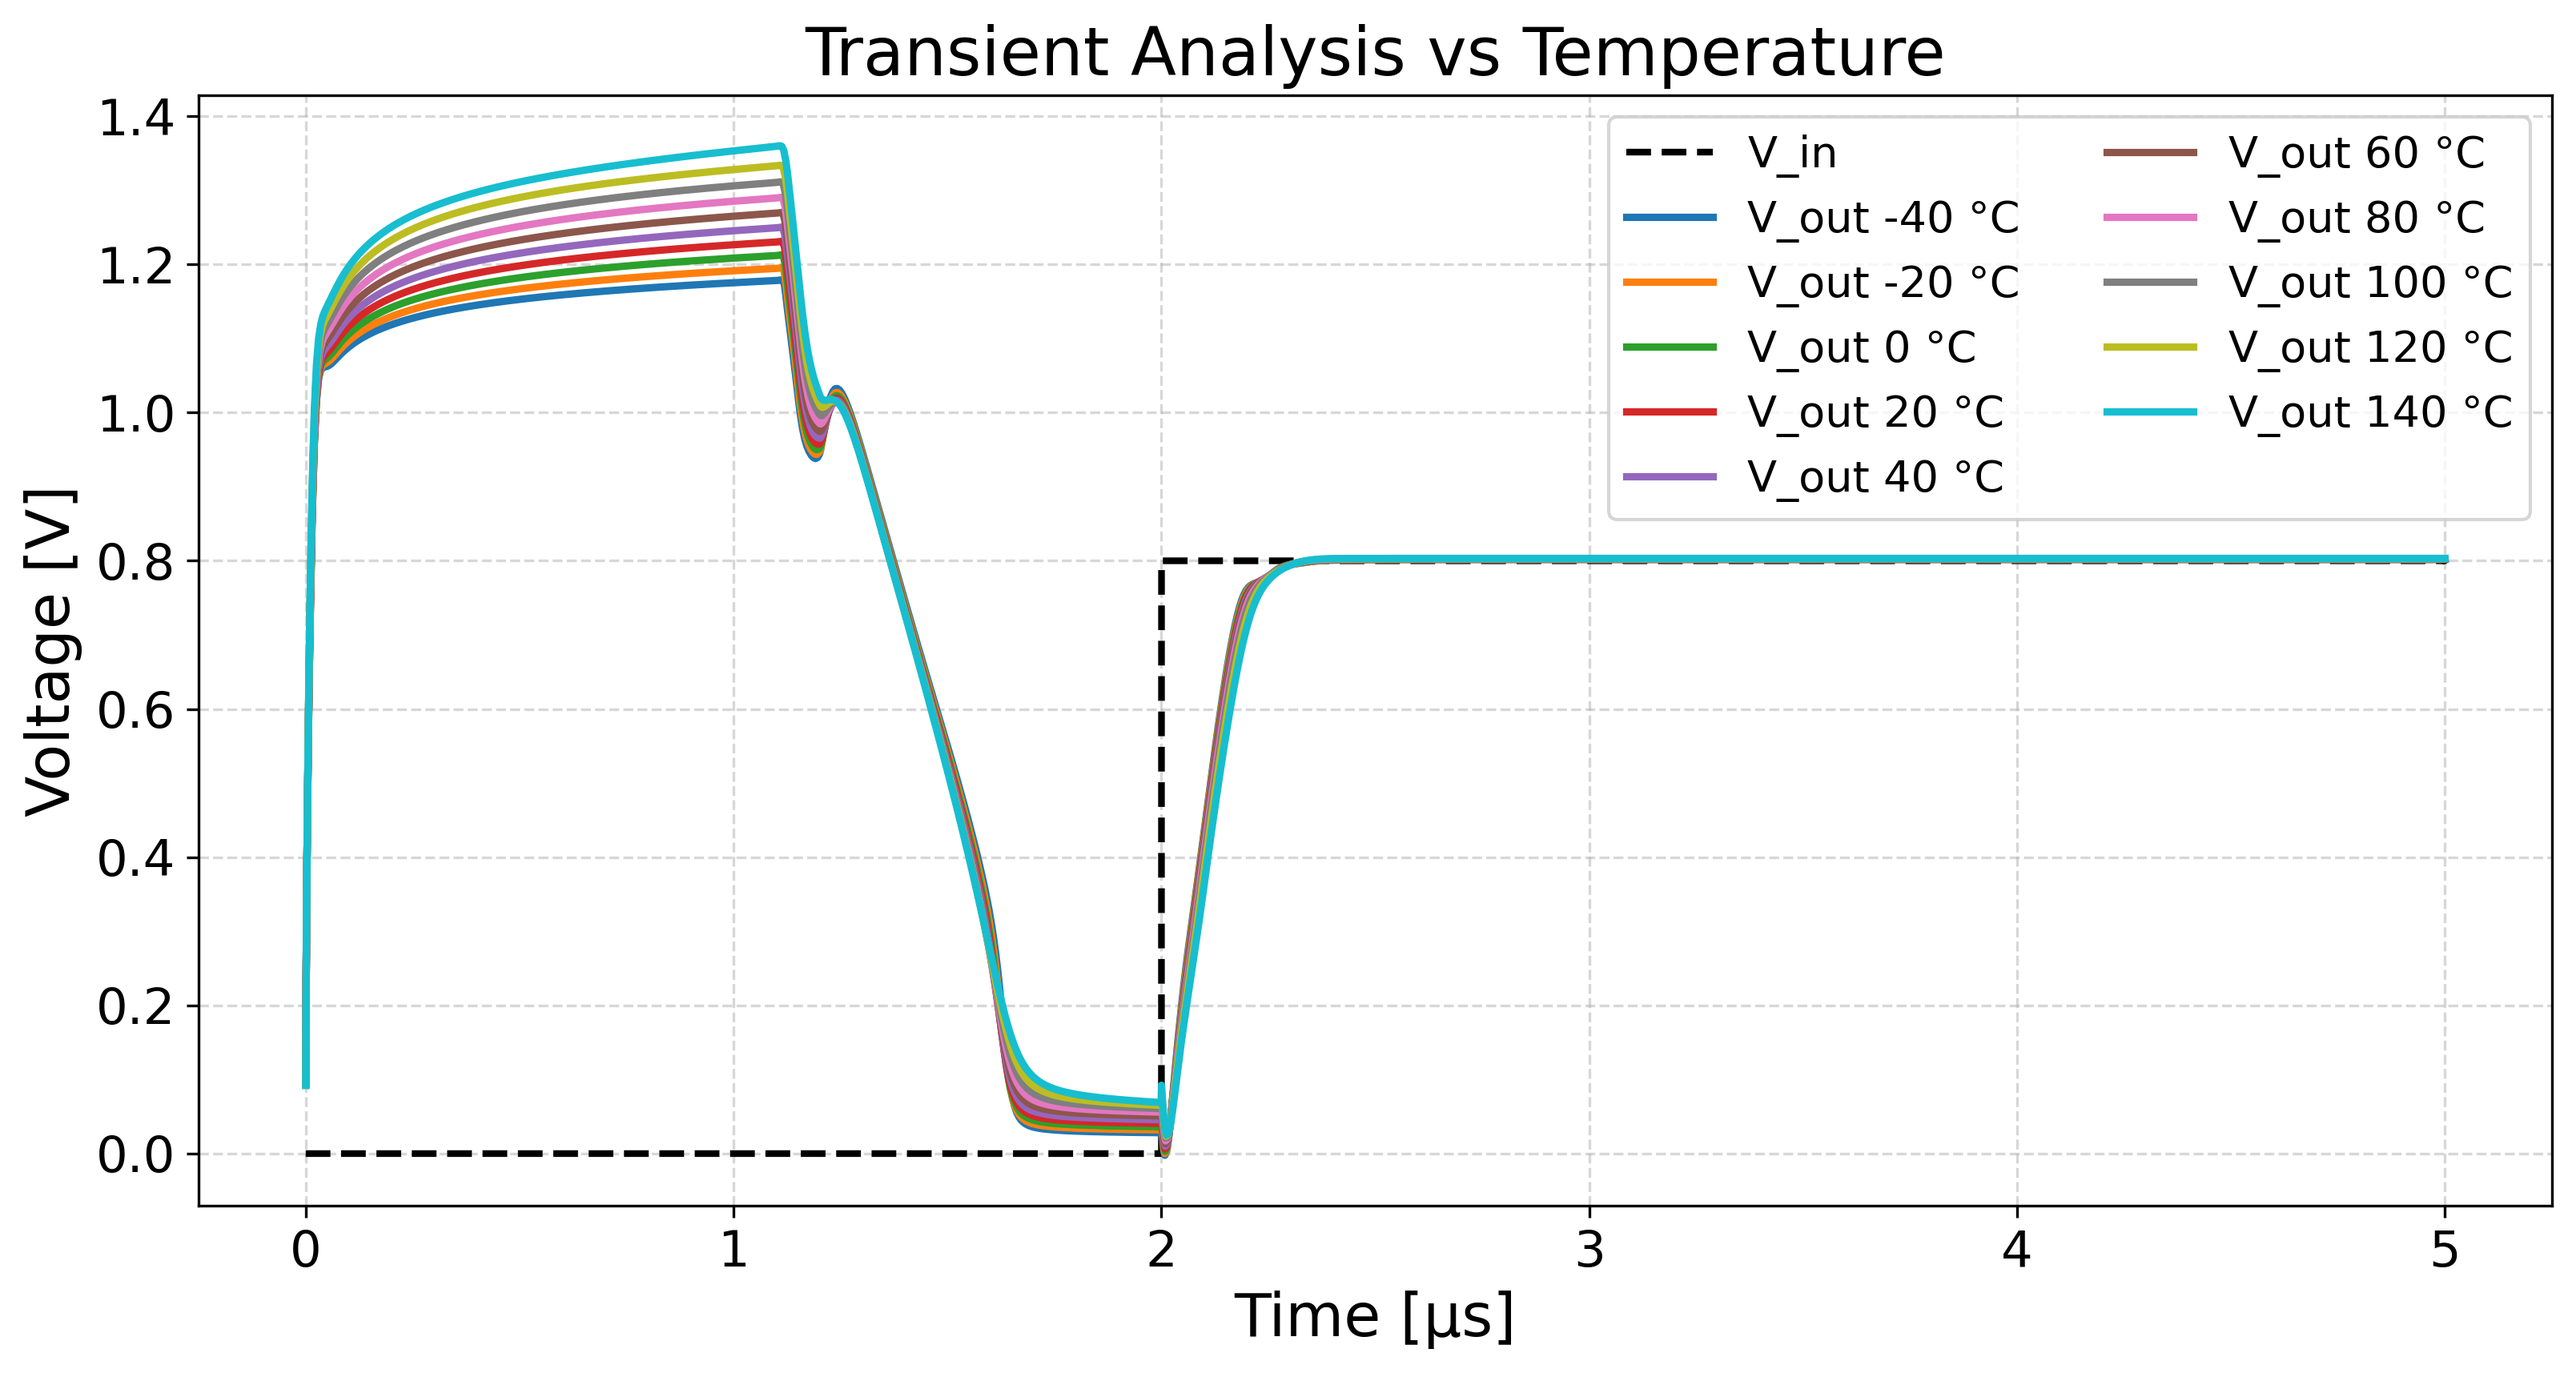
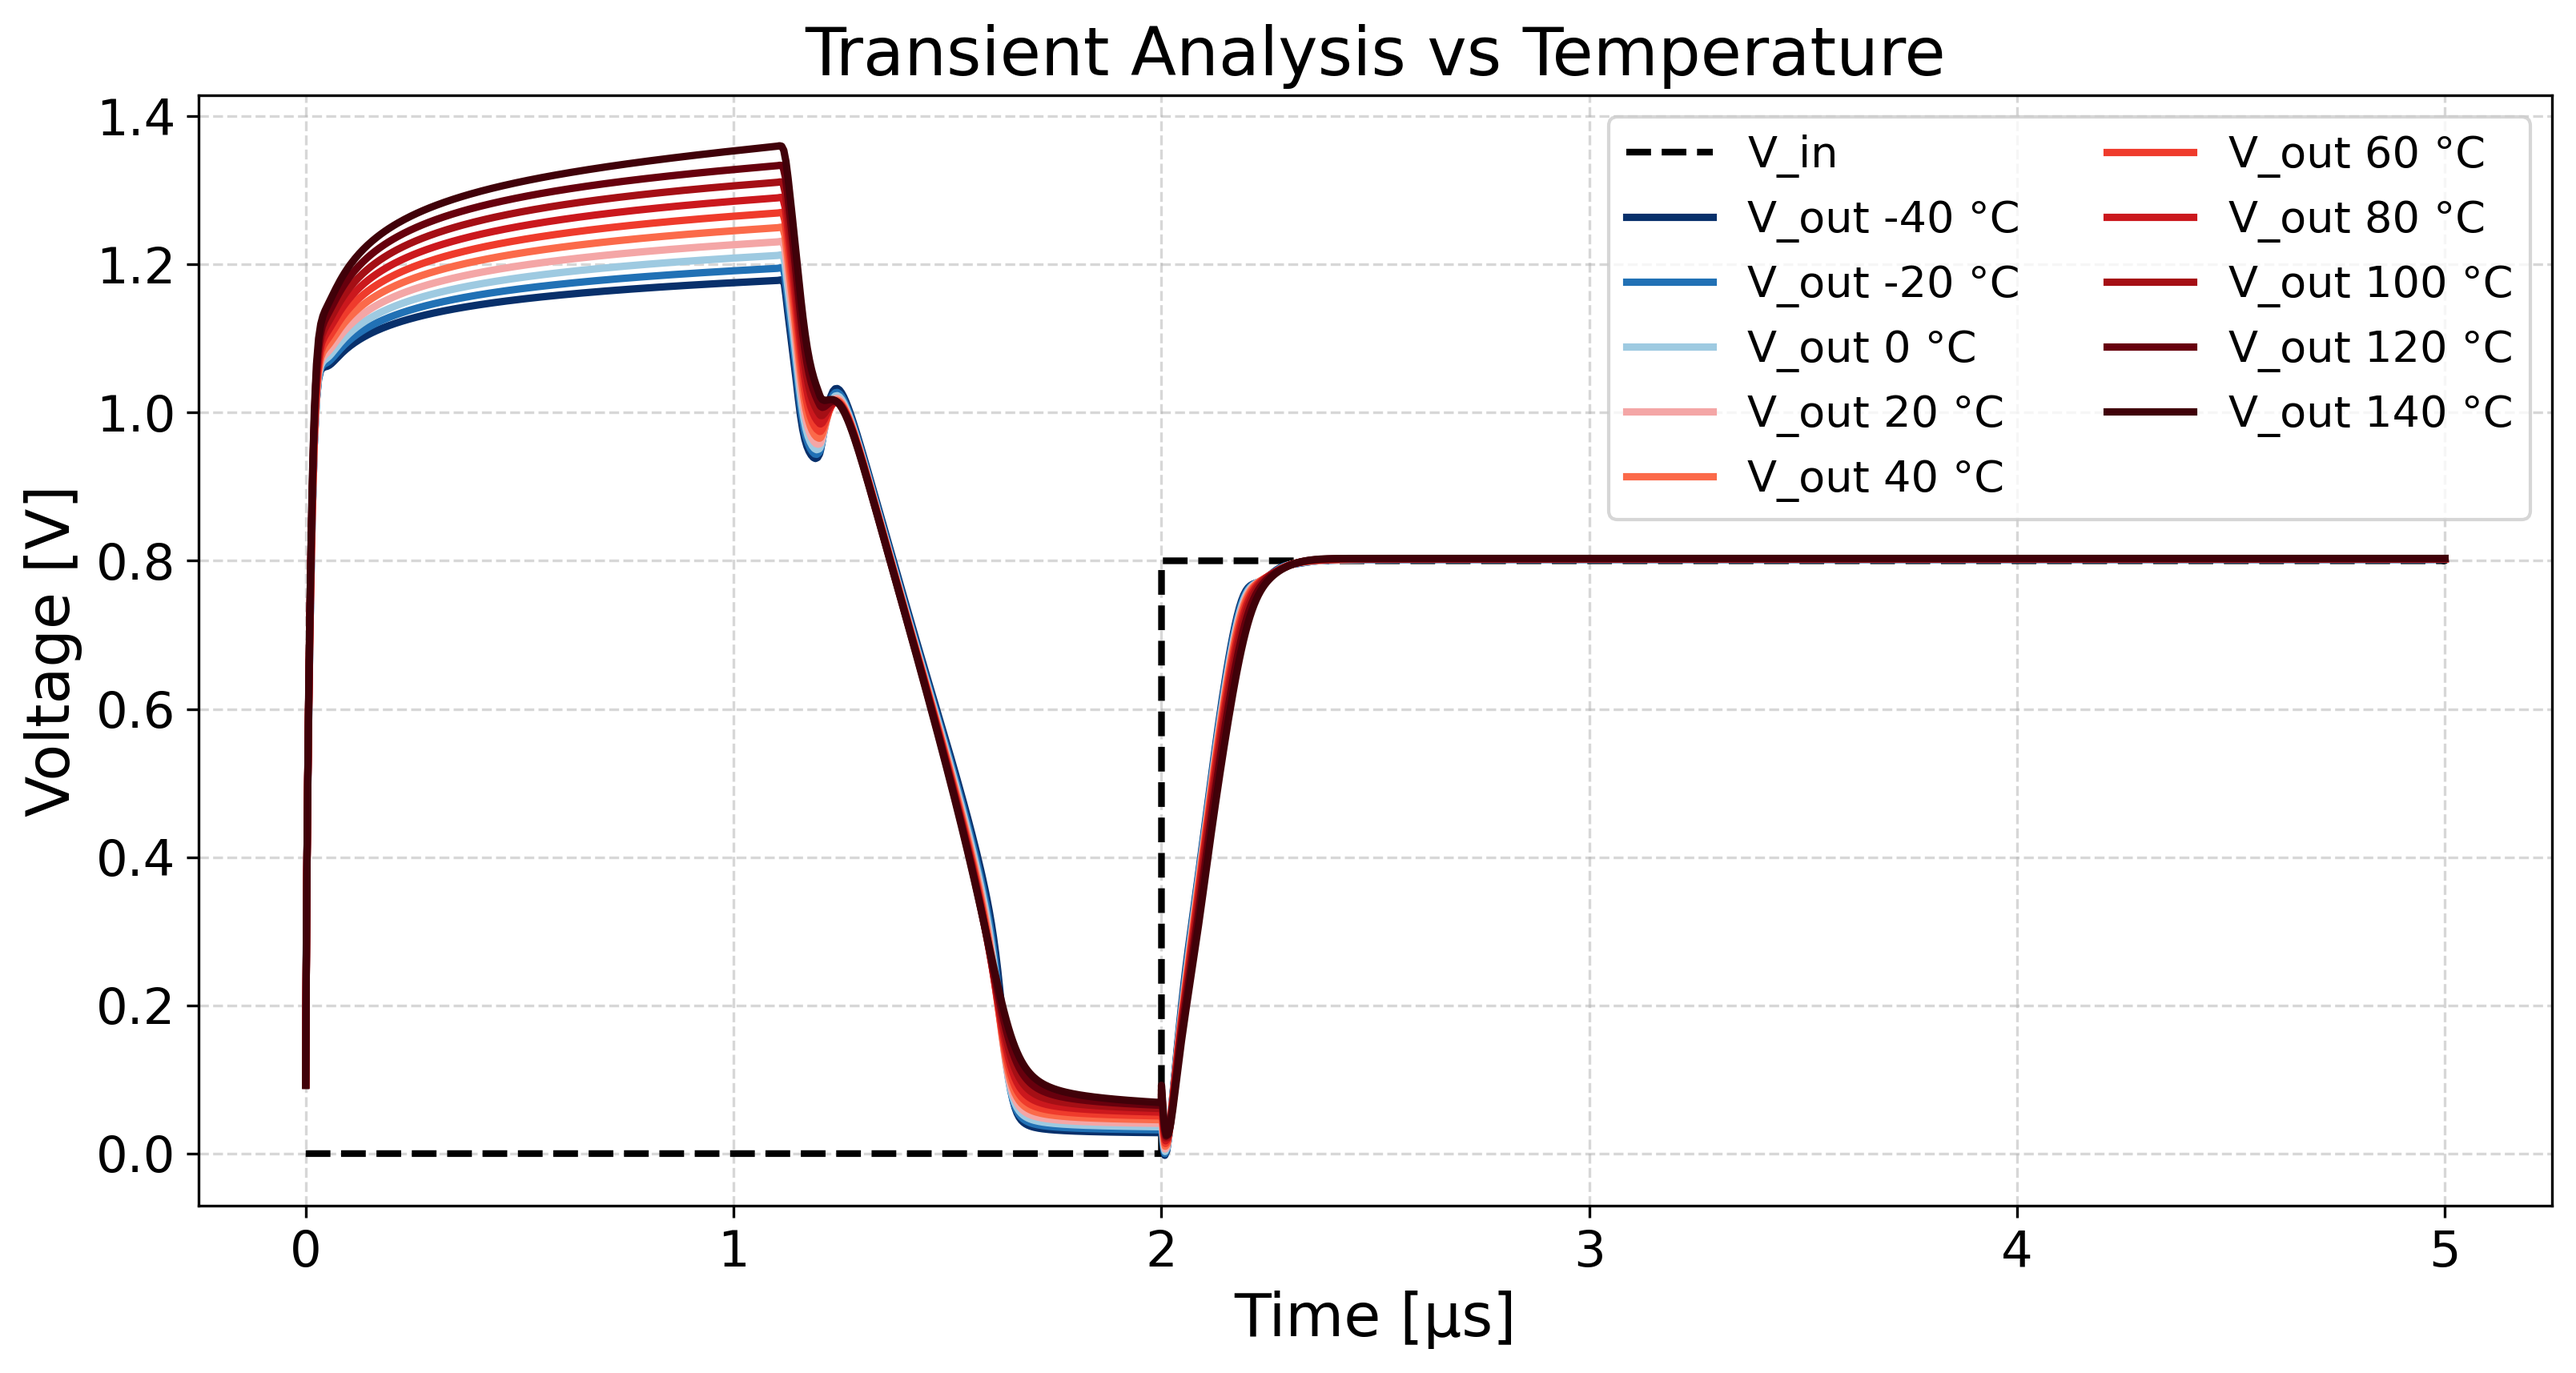
changed temperature sweep colours for better readability

diff --git a/004_Real_Circuits/README.md b/004_Real_Circuits/README.md
@@ -332,19 +332,14 @@ Using a settling band of 2% the settling time is 0.27 us.
 
 The analysis where repeated with a temperature sweep. Temperatures from -40 to 140 degrees Celsius where tested. 
 
-#### AC analysis
+#### AC Analysis
 
 The AC response shows a sensitivity to temperature. The colder the temperatures get, the higher the frequency cutoff is. The overoscillation of the curve gets smaller as well. 
 
 ![AC Response of OTA](pictures/temperature_analysis/real_circuit_ac_analysis_temp.png)
 
+
 #### Loopgain Analysis
-
-The loopgain analysis shows only a small sensitivity to temperature. Around 1 to 10 MHz some variations can be seen. These do not affect the calculated gain margin and phase margin enough to matter much.
-
-![Phase and Gain Response of OTA](pictures/temperature_analysis/real_circuit_loopgain_analysis_db_temp.png)
-
-#### Nils Part
 
 ![Loop Gain across Temperatures](pictures/stability_alltemp.png)
 
@@ -352,7 +347,7 @@ The loopgain analysis shows only a small sensitivity to temperature. Around 1 to
 * **Phase:** At higher frequencies around 1 MHz, the phase curves drift further apart.
 * **Worst-Case Considerations:** Since the gain decreases with increasing temperature, the following section analyzes the worst-case response at **140°C**.
 
-### Comparison of Stability Parameters at Room Temperature and 140°C
+##### Comparison of Stability Parameters at Room Temperature and 140°C
 
 | Parameter | Room Temperature (27°C) | Worst-Case (140°C) |
 | :--- | :---: | :---: |
